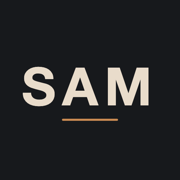
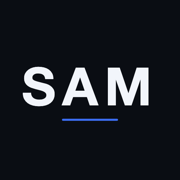
Blue-black SAM theme (UI/UX Pro Max palette direction), versioned assets

diff --git a/web/app.css b/web/app.css
@@ -1,23 +1,25 @@
 /* customer app */
 body { min-height: 100dvh; }
-.top { position: sticky; top: 0; z-index: 20; background: color-mix(in srgb, var(--bg) 88%, transparent); backdrop-filter: blur(12px); -webkit-backdrop-filter: blur(12px);
-  padding: calc(10px + env(safe-area-inset-top)) 16px 10px; display: flex; align-items: center; justify-content: space-between; gap: 12px; border-bottom: 1px solid var(--line); }
+.top { position: sticky; top: 0; z-index: 20; background: color-mix(in srgb, var(--bar) 92%, transparent); color: var(--bar-ink); backdrop-filter: blur(14px); -webkit-backdrop-filter: blur(14px);
+  padding: calc(10px + env(safe-area-inset-top)) 16px 10px; display: flex; align-items: center; justify-content: space-between; gap: 12px; border-bottom: 2px solid var(--accent); }
 .brand { font-weight: 800; letter-spacing: .22em; font-size: 20px; direction: ltr; }
-.top .who { font-size: 13px; color: var(--muted); text-align: end; line-height: 1.3; overflow: hidden; text-overflow: ellipsis; white-space: nowrap; max-width: 60%; }
+.top .who { font-size: 13px; color: var(--bar-muted); text-align: end; line-height: 1.3; overflow: hidden; text-overflow: ellipsis; white-space: nowrap; max-width: 60%; }
 main { padding: 14px 16px calc(96px + env(safe-area-inset-bottom)); max-width: 980px; margin: 0 auto; }
 .h { display: flex; justify-content: space-between; align-items: baseline; margin: 4px 0 12px; gap: 8px; }
 .h h2 { font-size: 19px; }
 
 /* bottom tabs */
-.tabs { position: fixed; bottom: 0; inset-inline: 0; z-index: 30; display: grid; grid-template-columns: repeat(5, 1fr); background: var(--surface); border-top: 1px solid var(--line);
+.tabs { position: fixed; bottom: 0; inset-inline: 0; z-index: 30; display: grid; grid-template-columns: repeat(5, 1fr); background: color-mix(in srgb, var(--surface) 92%, transparent); backdrop-filter: blur(14px); -webkit-backdrop-filter: blur(14px); border-top: 1px solid var(--line);
   padding-bottom: env(safe-area-inset-bottom); }
 .tabs button { position: relative; display: grid; justify-items: center; gap: 2px; padding: 8px 2px 8px; min-height: 58px; border: 0; background: none; font-size: 11.5px; font-weight: 600; color: var(--muted); cursor: pointer; }
 .tabs svg { width: 23px; height: 23px; stroke: currentColor; fill: none; stroke-width: 1.7; stroke-linecap: round; stroke-linejoin: round; }
 .tabs button[aria-current="page"] { color: var(--accent); }
+.tabs button[aria-current="page"]::before { content: ""; position: absolute; top: 0; inset-inline: 30%; height: 3px; border-radius: 0 0 3px 3px; background: var(--accent); }
 .badge { position: absolute; top: 4px; inset-inline-start: calc(50% + 4px); min-width: 18px; height: 18px; padding: 0 5px; border-radius: 9px; background: var(--accent); color: var(--accent-ink); font-size: 11px; line-height: 18px; text-align: center; }
 
 /* login */
-.login { min-height: 100dvh; display: grid; place-items: center; padding: 24px 16px; }
+.login { min-height: 100dvh; display: grid; place-items: center; padding: 24px 16px; background: var(--hero); }
+.login .card { border: 0; box-shadow: 0 24px 60px -20px rgba(0, 0, 0, .55); }
 .login .card { width: 100%; max-width: 380px; padding: 28px 22px; }
 .login .brand { display: block; text-align: center; font-size: 30px; margin-bottom: 4px; }
 .login p { text-align: center; color: var(--muted); margin: 0 0 22px; font-size: 14px; }
@@ -26,10 +28,10 @@ main { padding: 14px 16px calc(96px + env(safe-area-inset-bottom)); max-width: 9
 
 /* products */
 .search { margin-bottom: 10px; }
-.fest-strip { display: flex; gap: 12px; align-items: center; padding: 10px 12px; margin-bottom: 12px; border-radius: var(--radius); background: var(--accent-soft); color: var(--ink); border: 0; width: 100%; text-align: start; cursor: pointer; }
+.fest-strip { display: flex; gap: 12px; align-items: center; padding: 12px 14px; margin-bottom: 12px; border-radius: var(--radius); background: var(--hero); color: #fff; border: 0; width: 100%; text-align: start; cursor: pointer; }
 .fest-strip img { width: 54px; height: 54px; border-radius: 10px; object-fit: cover; flex: none; }
 .fest-strip b { display: block; }
-.fest-strip small { color: var(--muted); }
+.fest-strip small { color: rgba(255, 255, 255, .8); }
 .grid { display: grid; grid-template-columns: repeat(2, minmax(0, 1fr)); gap: 10px; margin-top: 8px; }
 @media (min-width: 640px) { .grid { grid-template-columns: repeat(3, minmax(0, 1fr)); } }
 @media (min-width: 900px) { .grid { grid-template-columns: repeat(4, minmax(0, 1fr)); } }
@@ -70,7 +72,7 @@ main { padding: 14px 16px calc(96px + env(safe-area-inset-bottom)); max-width: 9
 /* festivals */
 .f { overflow: hidden; margin-bottom: 14px; }
 .f img { width: 100%; aspect-ratio: 16/9; object-fit: cover; background: var(--surface-2); }
-.f .poster-none { aspect-ratio: 16/7; display: grid; place-items: center; background: linear-gradient(135deg, var(--accent-soft), var(--surface-2)); font-weight: 800; letter-spacing: .2em; color: var(--accent); }
+.f .poster-none { aspect-ratio: 16/7; display: grid; place-items: center; background: var(--hero); font-weight: 800; letter-spacing: .3em; font-size: 22px; color: #fff; }
 .f .b { padding: 14px; display: grid; gap: 10px; }
 .f h3 { font-size: 18px; }
 .kv { display: grid; grid-template-columns: auto 1fr; gap: 4px 12px; font-size: 14px; }
@@ -80,7 +82,8 @@ main { padding: 14px 16px calc(96px + env(safe-area-inset-bottom)); max-width: 9
 .f p { margin: 0; white-space: pre-line; }
 
 /* account */
-.bal { padding: 18px; display: grid; gap: 4px; margin-bottom: 14px; }
+.bal { padding: 18px; display: grid; gap: 4px; margin-bottom: 14px; background: var(--hero); color: #fff; border: 0; }
+.bal .muted { color: rgba(255, 255, 255, .78); }
 .bal .v { font-size: 26px; font-weight: 800; }
 .inv { display: flex; justify-content: space-between; align-items: center; padding: 12px 0; border-bottom: 1px solid var(--line); gap: 8px; }
 .inv .a { font-weight: 700; white-space: nowrap; }

diff --git a/web/common.css b/web/common.css
@@ -3,22 +3,25 @@
 @font-face { font-family: "Vazirmatn"; font-weight: 100 900; font-display: swap; src: url(/fonts/vazirmatn-5.woff2) format("woff2"); unicode-range: U+??, U+131, U+152-153, U+2BB-2BC, U+2C6, U+2DA, U+2DC, U+304, U+308, U+329, U+2000-206F, U+20AC, U+2122, U+2191, U+2193, U+2212, U+2215, U+FEFF, U+FFFD; }
 
 :root {
-  --bg: #f3f1ed; --surface: #ffffff; --surface-2: #f8f6f2; --ink: #17191c; --muted: #676b72; --line: #e2ded6;
-  --accent: #9c5f2c; --accent-ink: #ffffff; --accent-soft: #f4e9de; --ok: #2f7a4f; --ok-soft: #e3f1e8; --bad: #b3372f; --bad-soft: #f8e4e1; --warn: #9a6a00; --warn-soft: #fbf0d4;
-  --radius: 14px; --shadow: 0 1px 2px rgba(20, 20, 20, .05), 0 4px 16px rgba(20, 20, 20, .05);
+  --bg: #f4f6fa; --surface: #ffffff; --surface-2: #eef2f8; --ink: #0b0e14; --muted: #5a6475; --line: #dfe5ee;
+  --accent: #1d4ed8; --accent-ink: #ffffff; --accent-soft: #e5ecfd; --ok: #237a4b; --ok-soft: #e2f3e9; --bad: #c0352b; --bad-soft: #fbe6e3; --warn: #94650a; --warn-soft: #fbf1d8;
+  --bar: #0a0d13; --bar-ink: #f2f5fb; --bar-muted: #9aa6ba; --hero: linear-gradient(135deg, #0a0d13 0%, #102a6b 62%, #1d4ed8 100%);
+  --radius: 14px; --shadow: 0 1px 2px rgba(10, 20, 40, .05), 0 6px 18px rgba(10, 30, 80, .06);
   --font: "Vazirmatn", system-ui, -apple-system, "Segoe UI", Tahoma, sans-serif;
   color-scheme: light;
 }
 @media (prefers-color-scheme: dark) {
   :root:not([data-theme="light"]) {
-    --bg: #0f1113; --surface: #181b1f; --surface-2: #1f2328; --ink: #ecebe8; --muted: #9a9ea6; --line: #2b3036;
-    --accent: #d38b4d; --accent-ink: #15120f; --accent-soft: #33261b; --ok: #6cc08f; --ok-soft: #17291f; --bad: #ee8077; --bad-soft: #321a18; --warn: #e2b54f; --warn-soft: #2d2513;
+    --bg: #07090d; --surface: #10141b; --surface-2: #171c25; --ink: #eef2f8; --muted: #9aa6ba; --line: #252c38;
+    --accent: #5b8cff; --accent-ink: #050a16; --accent-soft: #14213f; --ok: #6cc08f; --ok-soft: #13271c; --bad: #f08379; --bad-soft: #331917; --warn: #e2b54f; --warn-soft: #2c2412;
+    --bar: #030407; --bar-ink: #eef2f8; --bar-muted: #8c97ab; --hero: linear-gradient(135deg, #05070b 0%, #0e2257 60%, #2a5ae0 100%);
     --shadow: 0 1px 2px rgba(0, 0, 0, .3); color-scheme: dark;
   }
 }
 :root[data-theme="dark"] {
-  --bg: #0f1113; --surface: #181b1f; --surface-2: #1f2328; --ink: #ecebe8; --muted: #9a9ea6; --line: #2b3036;
-  --accent: #d38b4d; --accent-ink: #15120f; --accent-soft: #33261b; --ok: #6cc08f; --ok-soft: #17291f; --bad: #ee8077; --bad-soft: #321a18; --warn: #e2b54f; --warn-soft: #2d2513;
+  --bg: #07090d; --surface: #10141b; --surface-2: #171c25; --ink: #eef2f8; --muted: #9aa6ba; --line: #252c38;
+  --accent: #5b8cff; --accent-ink: #050a16; --accent-soft: #14213f; --ok: #6cc08f; --ok-soft: #13271c; --bad: #f08379; --bad-soft: #331917; --warn: #e2b54f; --warn-soft: #2c2412;
+  --bar: #030407; --bar-ink: #eef2f8; --bar-muted: #8c97ab; --hero: linear-gradient(135deg, #05070b 0%, #0e2257 60%, #2a5ae0 100%);
   --shadow: 0 1px 2px rgba(0, 0, 0, .3); color-scheme: dark;
 }
 
@@ -34,7 +37,8 @@ h1, h2, h3 { margin: 0; line-height: 1.35; }
 .btn { display: inline-flex; align-items: center; justify-content: center; gap: 6px; min-height: 44px; padding: 0 18px; border-radius: 12px; border: 1px solid var(--line);
   background: var(--surface); color: var(--ink); cursor: pointer; font-weight: 600; text-decoration: none; transition: background-color .15s, transform .1s; touch-action: manipulation; }
 .btn:active { transform: scale(.98); }
-.btn.primary { background: var(--accent); color: var(--accent-ink); border-color: var(--accent); }
+.btn.primary { background: var(--accent); color: var(--accent-ink); border-color: var(--accent); box-shadow: 0 6px 16px -8px color-mix(in srgb, var(--accent) 70%, transparent); }
+@media (hover: hover) { .btn.primary:hover { background: color-mix(in srgb, var(--accent) 88%, var(--ink)); } .btn:not(.primary):hover { background: var(--surface-2); } }
 .btn.ghost { background: transparent; }
 .btn.danger { color: var(--bad); }
 .btn.sm { min-height: 36px; padding: 0 12px; font-size: 14px; border-radius: 10px; }
@@ -59,7 +63,7 @@ textarea { min-height: 88px; resize: vertical; }
 .chips { display: flex; gap: 8px; overflow-x: auto; scrollbar-width: none; padding: 2px 16px 6px; margin: 0 -16px; }
 .chips::-webkit-scrollbar { display: none; }
 .chip { flex: none; min-height: 38px; padding: 0 16px; border-radius: 999px; border: 1px solid var(--line); background: var(--surface); font-weight: 600; font-size: 14px; cursor: pointer; }
-.chip[aria-pressed="true"] { background: var(--ink); color: var(--bg); border-color: var(--ink); }
+.chip[aria-pressed="true"] { background: var(--accent); color: var(--accent-ink); border-color: var(--accent); }
 
 .toast { position: fixed; inset-inline: 16px; bottom: calc(84px + env(safe-area-inset-bottom)); margin: auto; max-width: 420px; padding: 12px 16px; border-radius: 12px;
   background: var(--ink); color: var(--bg); font-weight: 600; text-align: center; opacity: 0; transform: translateY(8px); transition: opacity .2s, transform .2s; pointer-events: none; z-index: 90; }
@@ -73,7 +77,7 @@ dialog form, .dlg { padding: 20px; }
 
 .thumb { aspect-ratio: 1; border-radius: 10px; background: var(--surface-2); display: grid; place-items: center; overflow: hidden; color: var(--muted); }
 .thumb img { width: 100%; height: 100%; object-fit: cover; }
-.mono { font-weight: 800; letter-spacing: .12em; font-size: 15px; color: var(--muted); opacity: .6; }
+.mono { font-weight: 800; letter-spacing: .14em; font-size: 15px; color: var(--accent); opacity: .45; }
 
 table.t { width: 100%; border-collapse: collapse; font-size: 14px; }
 table.t th { text-align: start; font-weight: 600; color: var(--muted); font-size: 12.5px; padding: 8px 10px; border-bottom: 1px solid var(--line); white-space: nowrap; }

diff --git a/web/admin/admin.css b/web/admin/admin.css
@@ -1,10 +1,12 @@
 /* admin panel: side menu on desktop, scrolling top menu on phones */
 .wrap { display: grid; grid-template-columns: 220px 1fr; min-height: 100dvh; }
-.side { position: sticky; top: 0; height: 100dvh; padding: 18px 12px; border-inline-end: 1px solid var(--line); background: var(--surface); display: flex; flex-direction: column; gap: 2px; }
+.side { position: sticky; top: 0; height: 100dvh; padding: 18px 12px; background: var(--bar); color: var(--bar-ink); display: flex; flex-direction: column; gap: 2px; }
 .side .brand { font-weight: 800; letter-spacing: .22em; font-size: 20px; padding: 4px 12px 16px; direction: ltr; text-align: end; }
-.side .brand small { display: block; letter-spacing: 0; font-weight: 500; font-size: 12px; color: var(--muted); direction: rtl; text-align: start; }
-.nav a { display: flex; justify-content: space-between; align-items: center; padding: 9px 12px; border-radius: 10px; color: var(--ink); text-decoration: none; font-weight: 500; font-size: 14.5px; }
-.nav a[aria-current="page"] { background: var(--accent-soft); color: var(--accent); font-weight: 700; }
+.side .brand small { display: block; letter-spacing: 0; font-weight: 500; font-size: 12px; color: var(--bar-muted); direction: rtl; text-align: start; }
+.nav a { display: flex; justify-content: space-between; align-items: center; padding: 9px 12px; border-radius: 10px; color: var(--bar-ink); text-decoration: none; font-weight: 500; font-size: 14.5px; }
+.nav a[aria-current="page"] { background: var(--accent); color: #fff; font-weight: 700; }
+@media (hover: hover) { .nav a:not([aria-current]):hover { background: rgba(255, 255, 255, .07); } }
+.side .out { color: var(--bar-ink); background: transparent; border-color: rgba(255, 255, 255, .18); }
 .nav a .pill { font-size: 11px; }
 .side .out { margin-top: auto; }
 .content { padding: 22px 28px 60px; max-width: 1200px; min-width: 0; }
@@ -14,7 +16,7 @@
 @media (max-width: 820px) {
   .wrap { grid-template-columns: 1fr; grid-template-rows: auto 1fr; }
   .side { top: 0; }
-  .side { position: sticky; z-index: 20; height: auto; flex-direction: row; align-items: center; padding: calc(8px + env(safe-area-inset-top)) 12px 8px; overflow-x: auto; scrollbar-width: none; border-inline-end: 0; border-bottom: 1px solid var(--line); }
+  .side { position: sticky; z-index: 20; height: auto; flex-direction: row; align-items: center; padding: calc(8px + env(safe-area-inset-top)) 12px 8px; overflow-x: auto; scrollbar-width: none; border-bottom: 2px solid var(--accent); }
   .side::-webkit-scrollbar { display: none; }
   .side .brand { padding: 0 4px 0 10px; font-size: 16px; } .side .brand small { display: none; }
   .nav { display: contents; }
@@ -25,7 +27,8 @@
 
 .stats { display: grid; grid-template-columns: repeat(auto-fit, minmax(150px, 1fr)); gap: 10px; margin-bottom: 18px; }
 .stat { padding: 14px 16px; text-decoration: none; color: inherit; }
-.stat b { display: block; font-size: 26px; font-weight: 800; }
+.stat b { display: block; font-size: 26px; font-weight: 800; color: var(--accent); }
+.stat:first-child { background: var(--hero); color: #fff; border: 0; } .stat:first-child b { color: #fff; } .stat:first-child span { color: rgba(255, 255, 255, .8); }
 .stat span { color: var(--muted); font-size: 13.5px; }
 .panel { padding: 16px; margin-bottom: 16px; }
 .panel h2 { font-size: 16px; margin-bottom: 10px; }

diff --git a/web/sw.js b/web/sw.js
@@ -1,5 +1,5 @@
 // Offline shell: app files cached; API calls always go to the network (prices must be current).
-const V = "sam-v1";
+const V = "sam-v2";
 const SHELL = ["/", "/index.html", "/common.css", "/app.css", "/common.js", "/app.js", "/fonts/vazirmatn-4.woff2", "/fonts/vazirmatn-5.woff2", "/icon.svg"];
 self.addEventListener("install", e => { e.waitUntil(caches.open(V).then(c => c.addAll(SHELL)).then(() => self.skipWaiting())); });
 self.addEventListener("activate", e => { e.waitUntil(caches.keys().then(ks => Promise.all(ks.filter(k => k !== V).map(k => caches.delete(k)))).then(() => self.clients.claim())); });
@@ -7,5 +7,5 @@ self.addEventListener("fetch", e => {
   const u = new URL(e.request.url);
   if (e.request.method !== "GET" || u.origin !== location.origin || u.pathname.startsWith("/api/") || u.pathname.startsWith("/admin")) return;
   // network first, so a new version shows up at once; cache when offline
-  e.respondWith(fetch(e.request).then(r => { if (r.ok) { const c = r.clone(); caches.open(V).then(x => x.put(e.request, c)); } return r; }).catch(() => caches.match(e.request).then(r => r || caches.match("/index.html"))));
+  e.respondWith(fetch(e.request, { cache: "no-cache" }).then(r => { if (r.ok) { const c = r.clone(); caches.open(V).then(x => x.put(e.request, c)); } return r; }).catch(() => caches.match(e.request).then(r => r || caches.match("/index.html"))));
 });

diff --git a/web/index.html b/web/index.html
@@ -4,21 +4,21 @@
 <meta charset="utf-8">
 <meta name="viewport" content="width=device-width, initial-scale=1, viewport-fit=cover">
 <title>SAM سفارش</title>
-<meta name="theme-color" content="#f3f1ed" media="(prefers-color-scheme: light)">
-<meta name="theme-color" content="#0f1113" media="(prefers-color-scheme: dark)">
+<meta name="theme-color" content="#0a0d13" media="(prefers-color-scheme: light)">
+<meta name="theme-color" content="#030407" media="(prefers-color-scheme: dark)">
 <meta name="apple-mobile-web-app-capable" content="yes">
-<meta name="apple-mobile-web-app-status-bar-style" content="default">
+<meta name="apple-mobile-web-app-status-bar-style" content="black">
 <meta name="apple-mobile-web-app-title" content="SAM">
 <meta name="robots" content="noindex">
 <link rel="manifest" href="/manifest.webmanifest">
 <link rel="icon" href="/icon.svg" type="image/svg+xml">
 <link rel="apple-touch-icon" href="/icon-180.png">
 <link rel="preload" href="/fonts/vazirmatn-4.woff2" as="font" type="font/woff2" crossorigin>
-<link rel="stylesheet" href="/common.css">
-<link rel="stylesheet" href="/app.css">
+<link rel="stylesheet" href="/common.css?v=2">
+<link rel="stylesheet" href="/app.css?v=2">
 </head>
 <body>
 <div id="app" aria-live="polite"></div>
-<script type="module" src="/app.js"></script>
+<script type="module" src="/app.js?v=2"></script>
 </body>
 </html>

diff --git a/web/admin/index.html b/web/admin/index.html
@@ -5,15 +5,15 @@
 <meta name="viewport" content="width=device-width, initial-scale=1, viewport-fit=cover">
 <title>SAM پنل مدیریت</title>
 <meta name="robots" content="noindex">
-<meta name="theme-color" content="#f3f1ed" media="(prefers-color-scheme: light)">
-<meta name="theme-color" content="#0f1113" media="(prefers-color-scheme: dark)">
+<meta name="theme-color" content="#0a0d13" media="(prefers-color-scheme: light)">
+<meta name="theme-color" content="#030407" media="(prefers-color-scheme: dark)">
 <link rel="icon" href="/icon.svg" type="image/svg+xml">
 <link rel="preload" href="/fonts/vazirmatn-4.woff2" as="font" type="font/woff2" crossorigin>
-<link rel="stylesheet" href="/common.css">
-<link rel="stylesheet" href="/admin/admin.css">
+<link rel="stylesheet" href="/common.css?v=2">
+<link rel="stylesheet" href="/admin/admin.css?v=2">
 </head>
 <body>
 <div id="app"></div>
-<script type="module" src="/admin/admin.js"></script>
+<script type="module" src="/admin/admin.js?v=2"></script>
 </body>
 </html>

diff --git a/web/app.js b/web/app.js
@@ -1,5 +1,5 @@
 // SAM customer app: products by category, cart → order or proforma, orders, festivals, invoices and balance.
-import { $, $$, esc, api, token, fa, money, faDate, faDigits, latin, toast, STATUS, printDoc } from "/common.js";
+import { $, $$, esc, api, token, fa, money, faDate, faDigits, latin, toast, STATUS, printDoc } from "/common.js?v=2";
 
 const S = { user: null, settings: {}, cats: [], products: [], festivals: [], orders: null, account: null, tab: "products", cat: "all", q: "", cart: {}, ordersSeg: "order" };
 const app = $("#app");

diff --git a/web/admin/admin.js b/web/admin/admin.js
@@ -1,5 +1,5 @@
 // SAM admin panel: orders, agency report, products, categories, customers, festivals, file imports, settings.
-import { $, $$, esc, api, token, fa, money, faDate, faDigits, latin, toast, STATUS, printDoc, shrinkImage, fileB64 } from "/common.js";
+import { $, $$, esc, api, token, fa, money, faDate, faDigits, latin, toast, STATUS, printDoc, shrinkImage, fileB64 } from "/common.js?v=2";
 
 const app = $("#app");
 const S = { settings: {}, cats: [], products: [], customers: [], orders: [], me: null };
